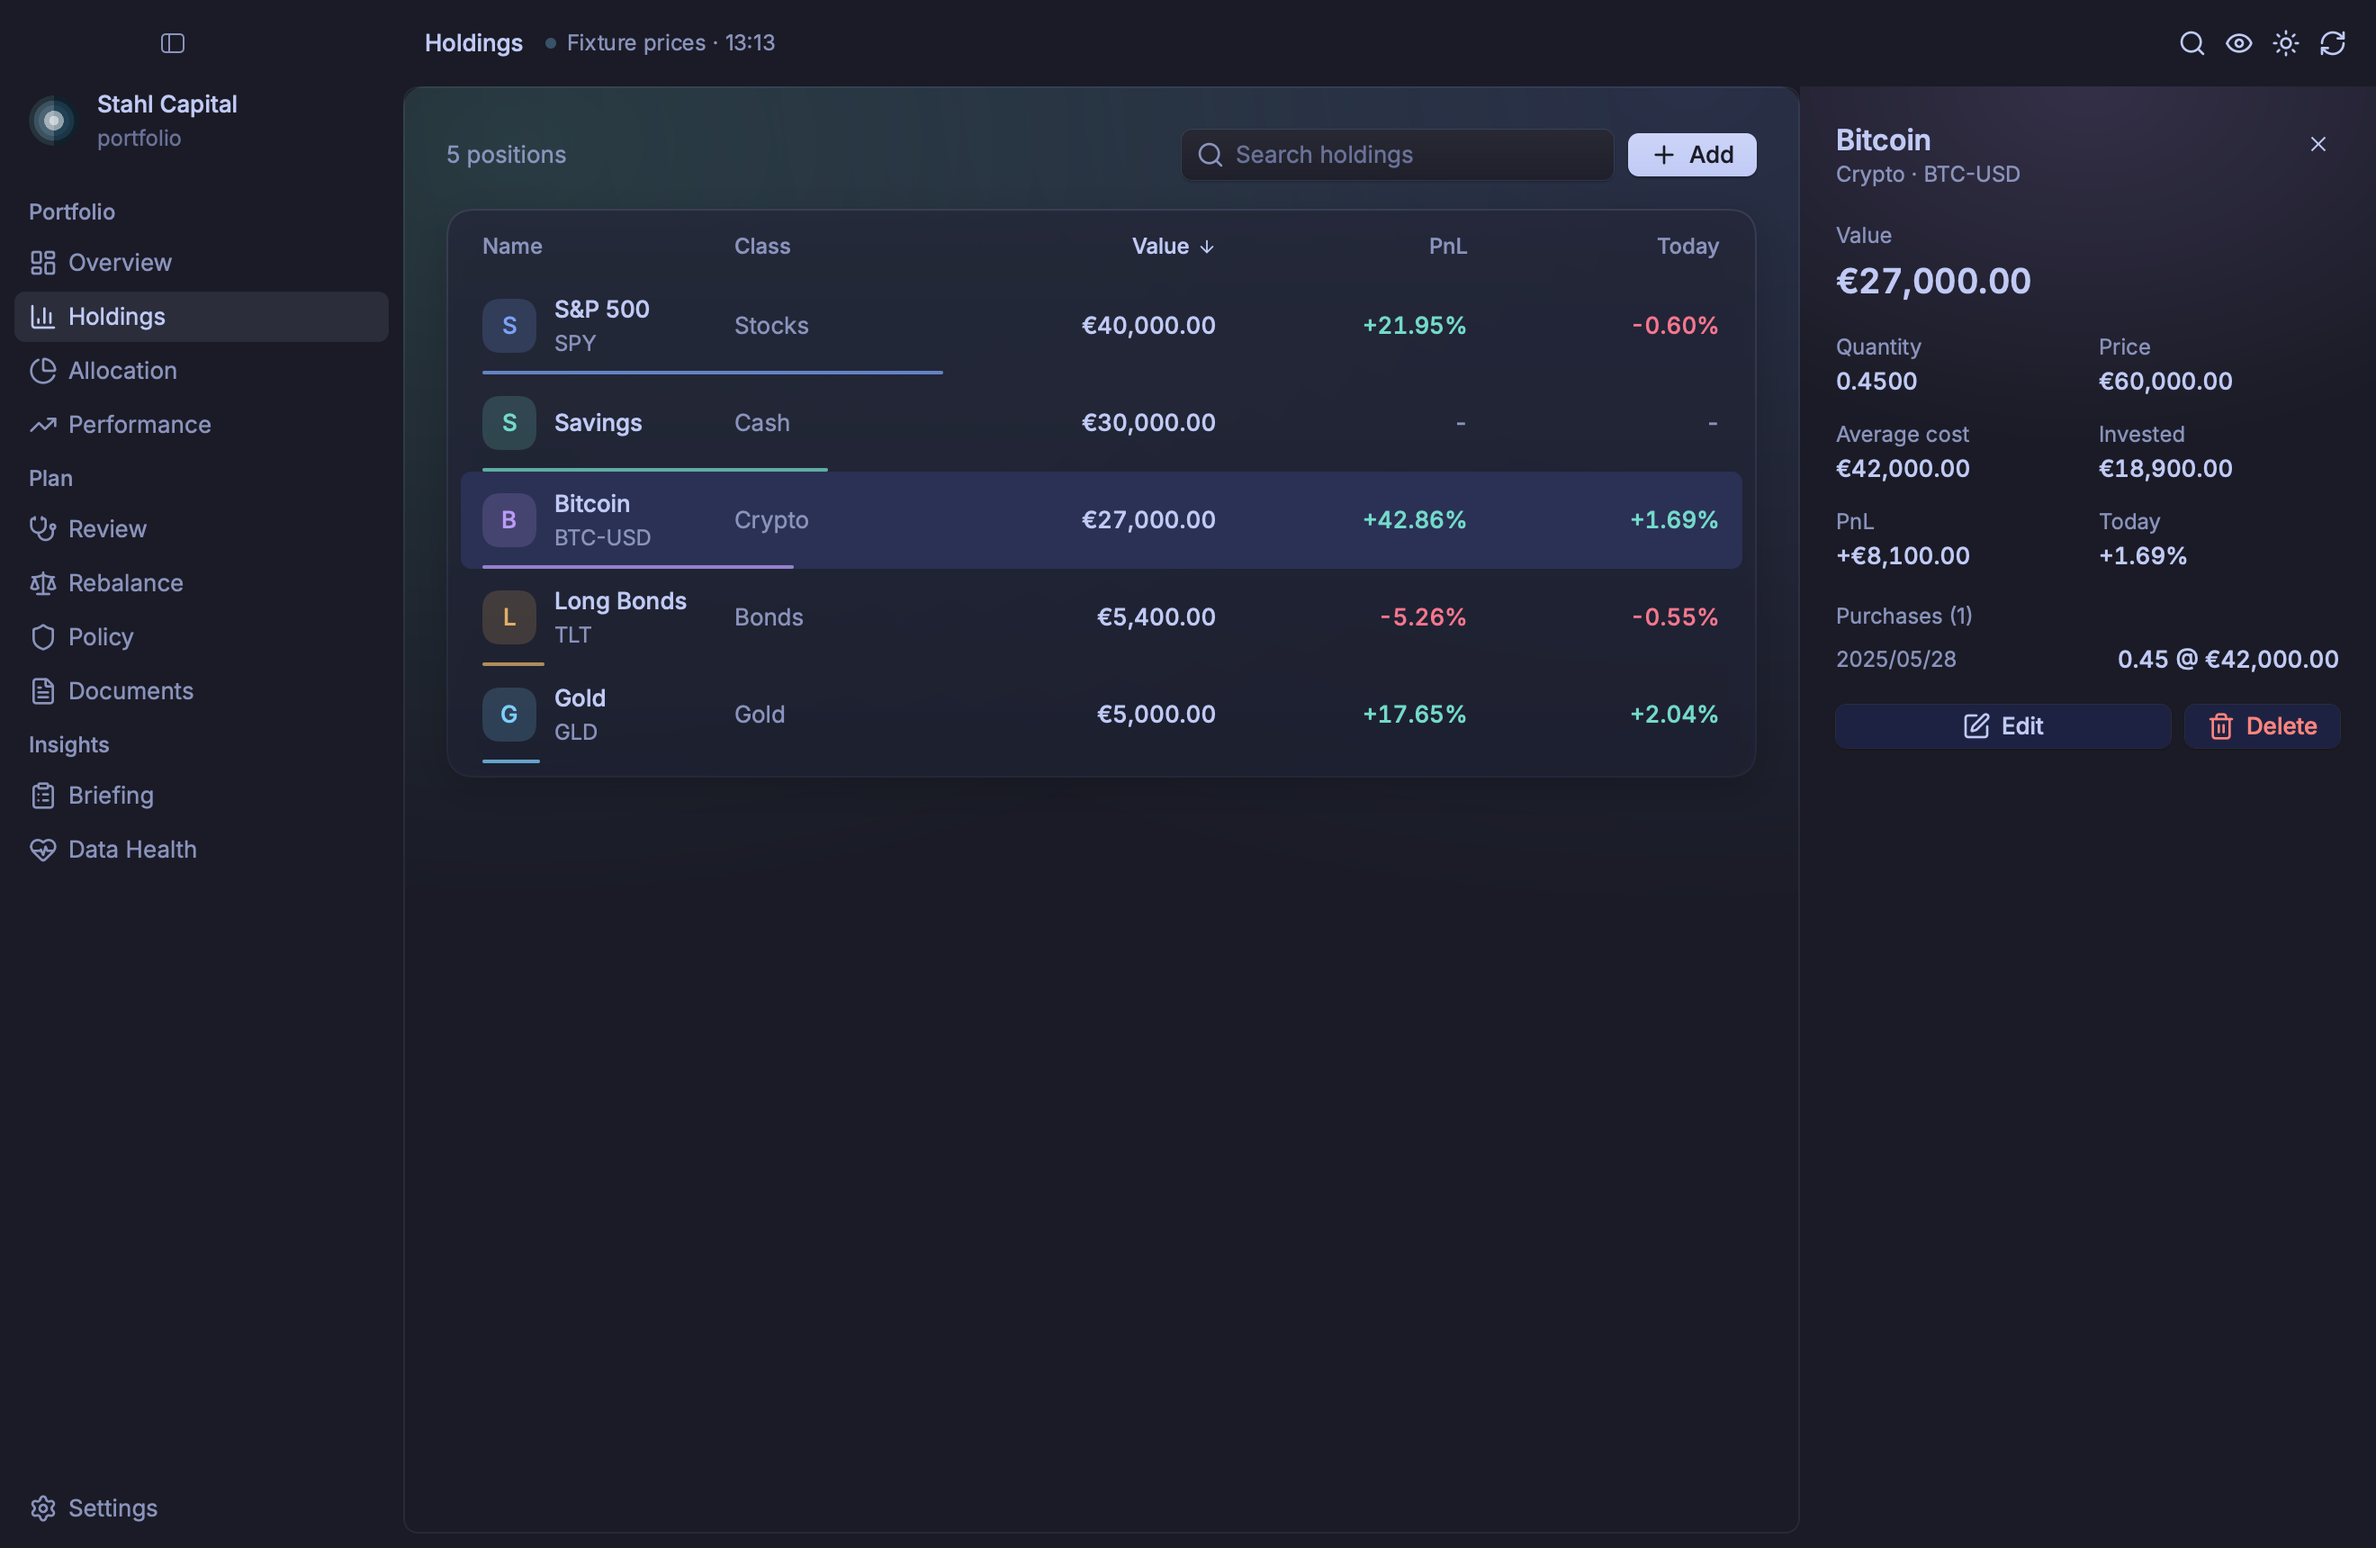
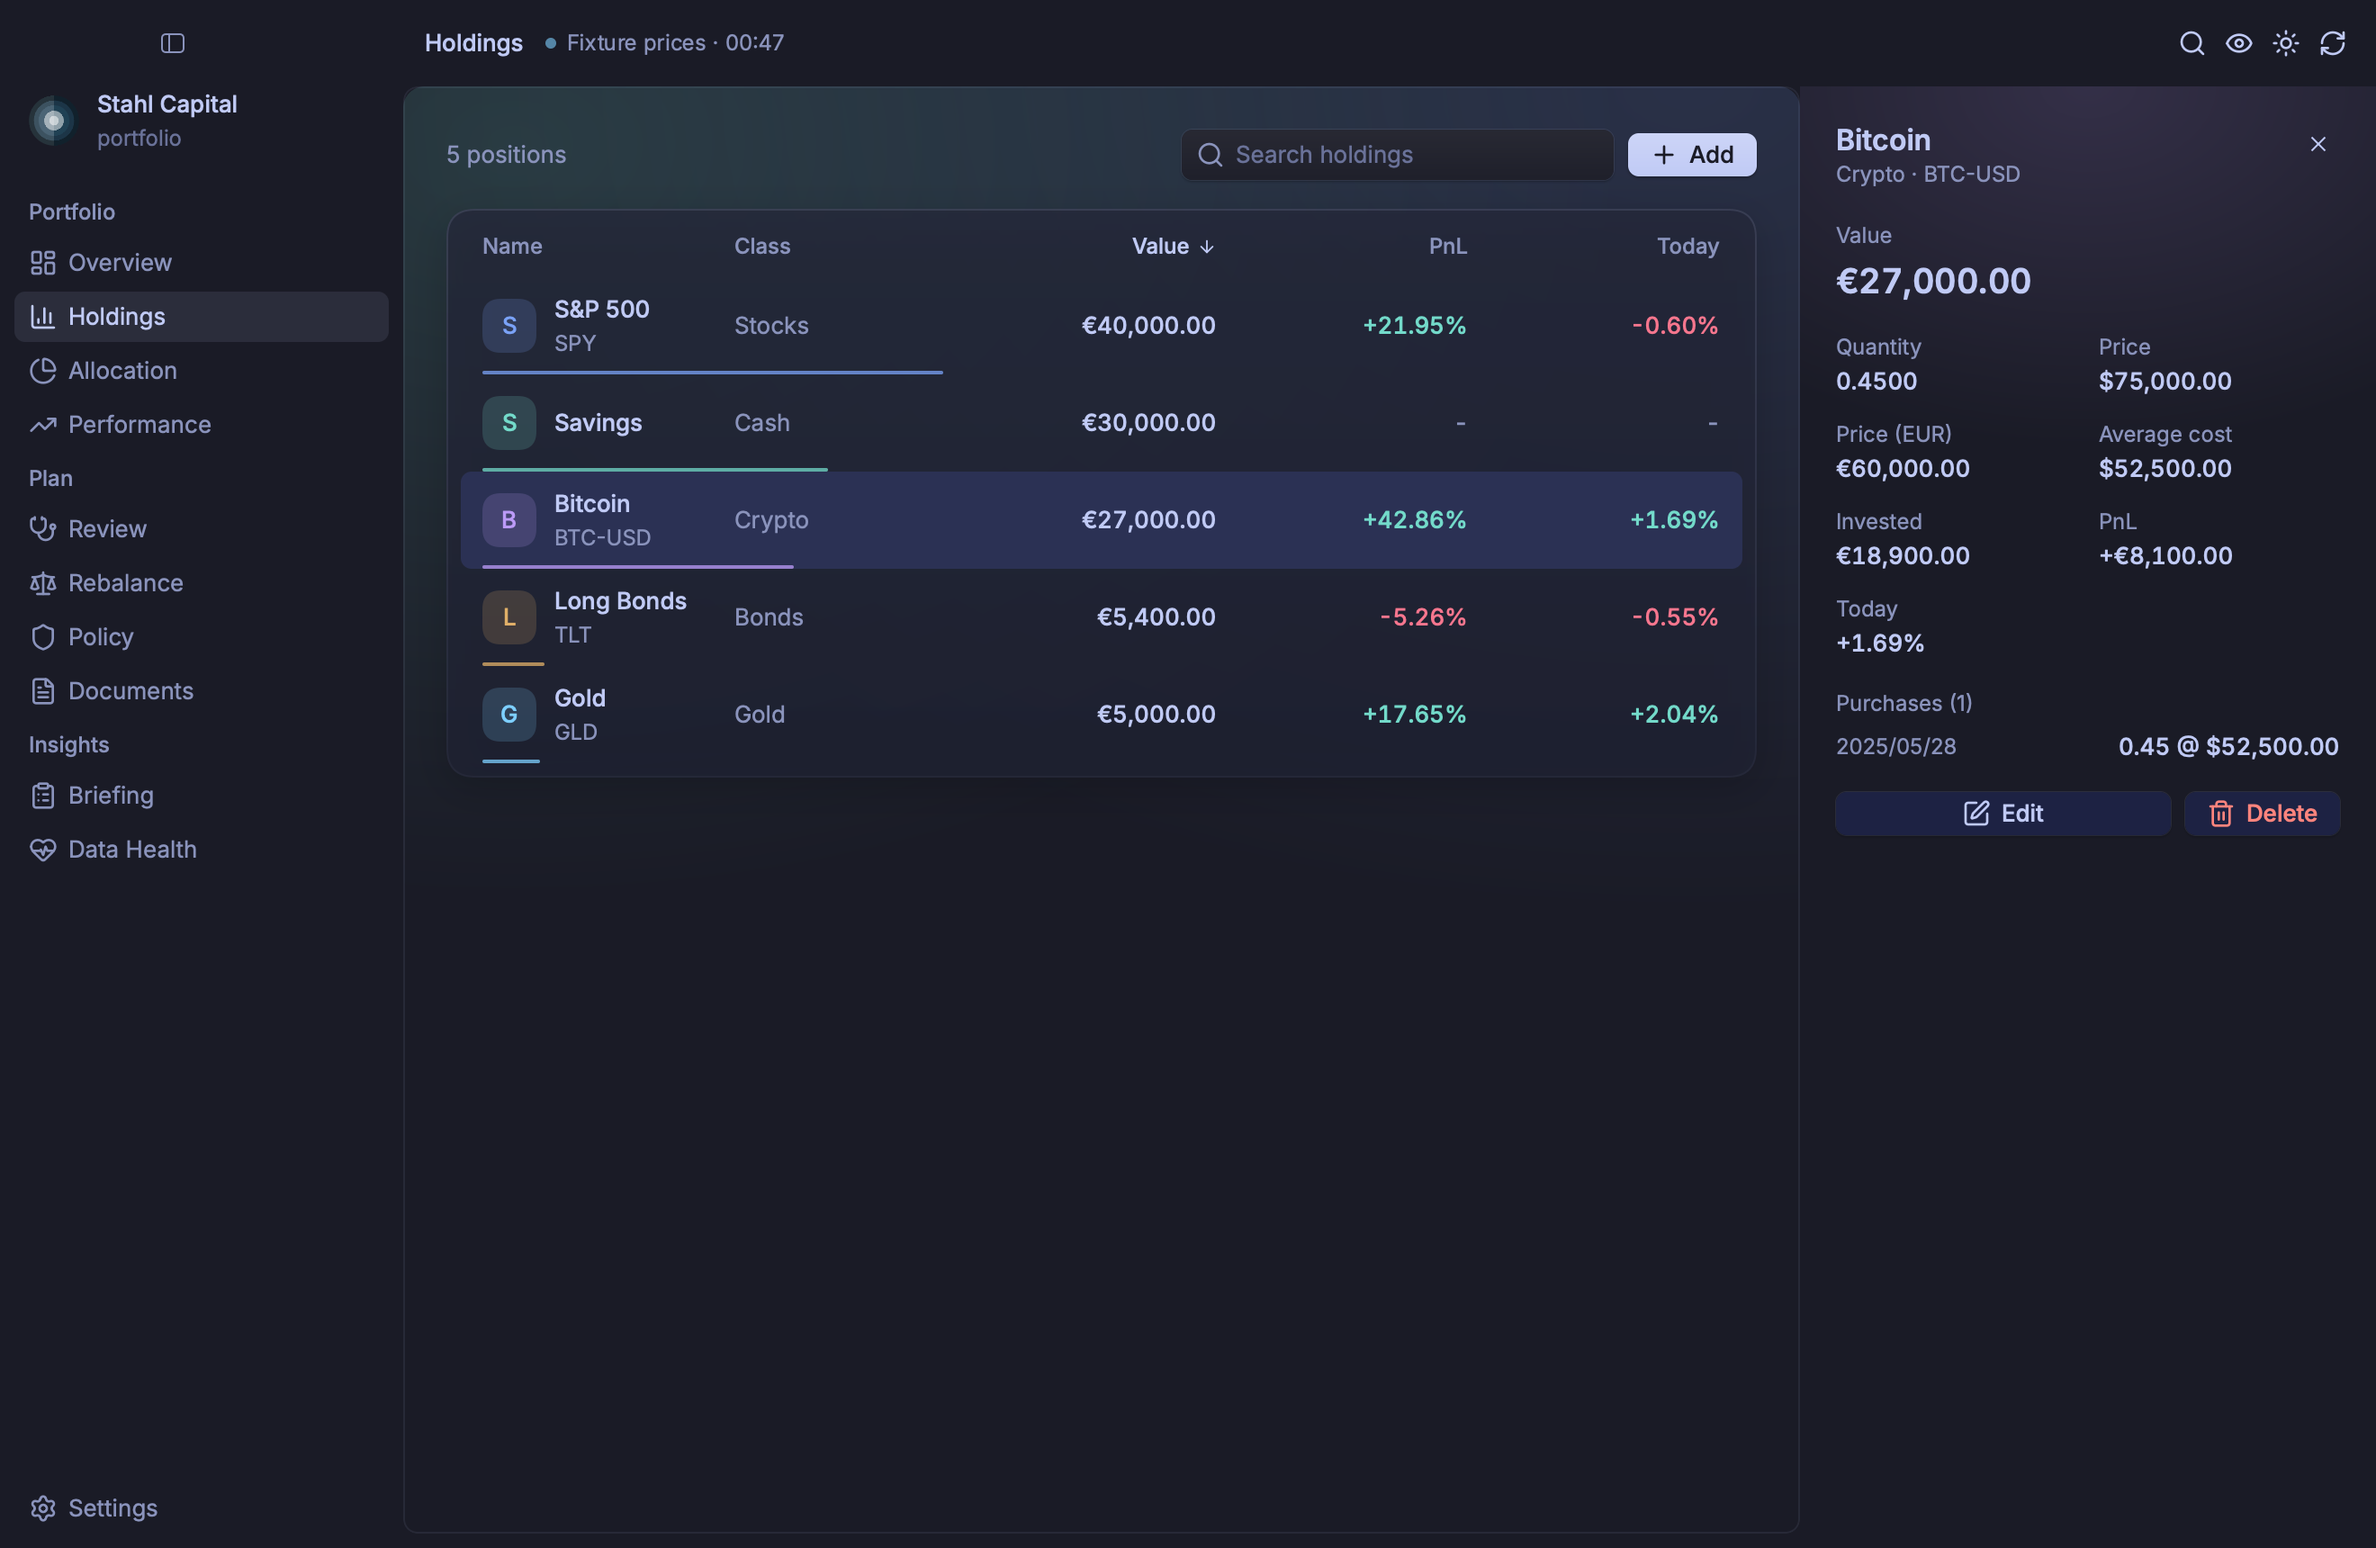
chore(demo): quote Bitcoin in dollars
Every figure the demo shows was in one currency, which is how #57 went
unnoticed. The euro totals stay the same.

Changed region(s): [[0.7765, 0.2773, 0.9939, 0.5547], [0.8697, 0.339, 0.9318, 0.3698], [0.8697, 0.2773, 0.9318, 0.3081]]

diff --git a/src/demo.rs b/src/demo.rs
@@ -11,7 +11,7 @@ use crate::backend::Backend;
 
 pub const POSITIONS: &str = r#"[
   {"Id": "pos_btc", "Name": "Bitcoin", "AssetClass": "Crypto", "Ticker": "BTC-USD", "Amount": 0.45,
-   "Purchases": [{"Date": "2025/05/28", "Quantity": 0.45, "Price": 42000.0}]},
+   "Purchases": [{"Date": "2025/05/28", "Quantity": 0.45, "Price": 52500.0}]},
   {"Id": "pos_spy", "Name": "S&P 500", "AssetClass": "Stocks", "Ticker": "SPY", "Amount": 80.0,
    "Purchases": [{"Date": "2024/01/10", "Quantity": 80.0, "Price": 410.0}]},
   {"Id": "pos_tlt", "Name": "Long Bonds", "AssetClass": "Bonds", "Ticker": "TLT", "Amount": 60.0,
@@ -59,12 +59,13 @@ tolerance_percent = 5.0
 
 const QUOTES: &str = r#"{
   "latest": {
-    "BTC-USD": {"price": 60000.0, "currency": "EUR"},
+    "BTC-USD": {"price": 75000.0, "currency": "USD"},
+    "EURUSD=X": {"price": 1.25, "currency": "USD"},
     "SPY": {"price": 500.0, "currency": "EUR"},
     "TLT": {"price": 90.0, "currency": "EUR"},
     "GLD": {"price": 200.0, "currency": "EUR"}
   },
-  "previous_close": {"BTC-USD": 59000.0, "SPY": 503.0, "TLT": 90.5, "GLD": 196.0}
+  "previous_close": {"BTC-USD": 73750.0, "SPY": 503.0, "TLT": 90.5, "GLD": 196.0}
 }"#;
 
 /// Write the demo's prices where `PORTFOLIO_RS_QUOTES=fixture:<path>` can find them.
@@ -80,10 +81,10 @@ pub fn seed_workspace(dir: &Path) {
     fs::write(dir.join("portfolio/policy.toml"), POLICY).expect("demo workspace is writable");
 
     let holdings = [
-        ("pos_btc", "Crypto", 0.45, 60000.0),
-        ("pos_spy", "Stocks", 80.0, 500.0),
-        ("pos_tlt", "Bonds", 60.0, 90.0),
-        ("pos_gld", "Gold", 25.0, 200.0),
+        ("pos_btc", "Crypto", 0.45, 75000.0, "USD", 0.8),
+        ("pos_spy", "Stocks", 80.0, 500.0, "EUR", 1.0),
+        ("pos_tlt", "Bonds", 60.0, 90.0, "EUR", 1.0),
+        ("pos_gld", "Gold", 25.0, 200.0, "EUR", 1.0),
     ];
     let today = Local::now().date_naive();
     let lines: Vec<String> = (1..=90)
@@ -96,12 +97,12 @@ pub fn seed_workspace(dir: &Path) {
                     .to_string(),
             ];
             let mut total = 30000.0;
-            for (id, class, quantity, price) in holdings {
+            for (id, class, quantity, price, currency, fx) in holdings {
                 let price = (price * wave * 100.0_f64).round() / 100.0;
-                let value = (quantity * price * 100.0_f64).round() / 100.0;
+                let value = (quantity * price * fx * 100.0_f64).round() / 100.0;
                 total += value;
                 positions.push(format!(
-                    r#"{{"positionId":"{id}","kind":"market","assetClass":"{class}","quantity":{quantity},"price":{price},"priceCurrency":"EUR","fxRate":1.0,"valueBase":{value}}}"#
+                    r#"{{"positionId":"{id}","kind":"market","assetClass":"{class}","quantity":{quantity},"price":{price},"priceCurrency":"{currency}","fxRate":{fx},"valueBase":{value}}}"#
                 ));
             }
             format!(
